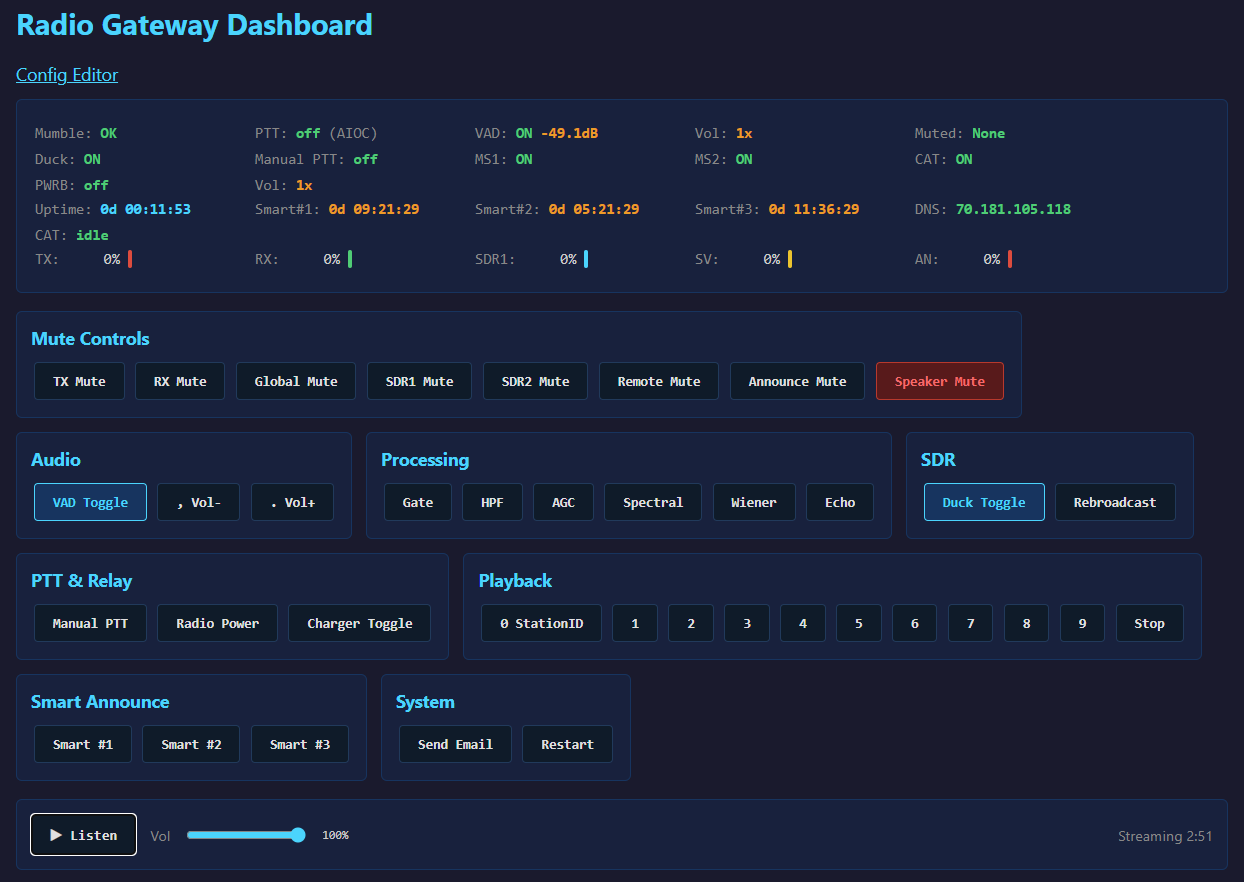
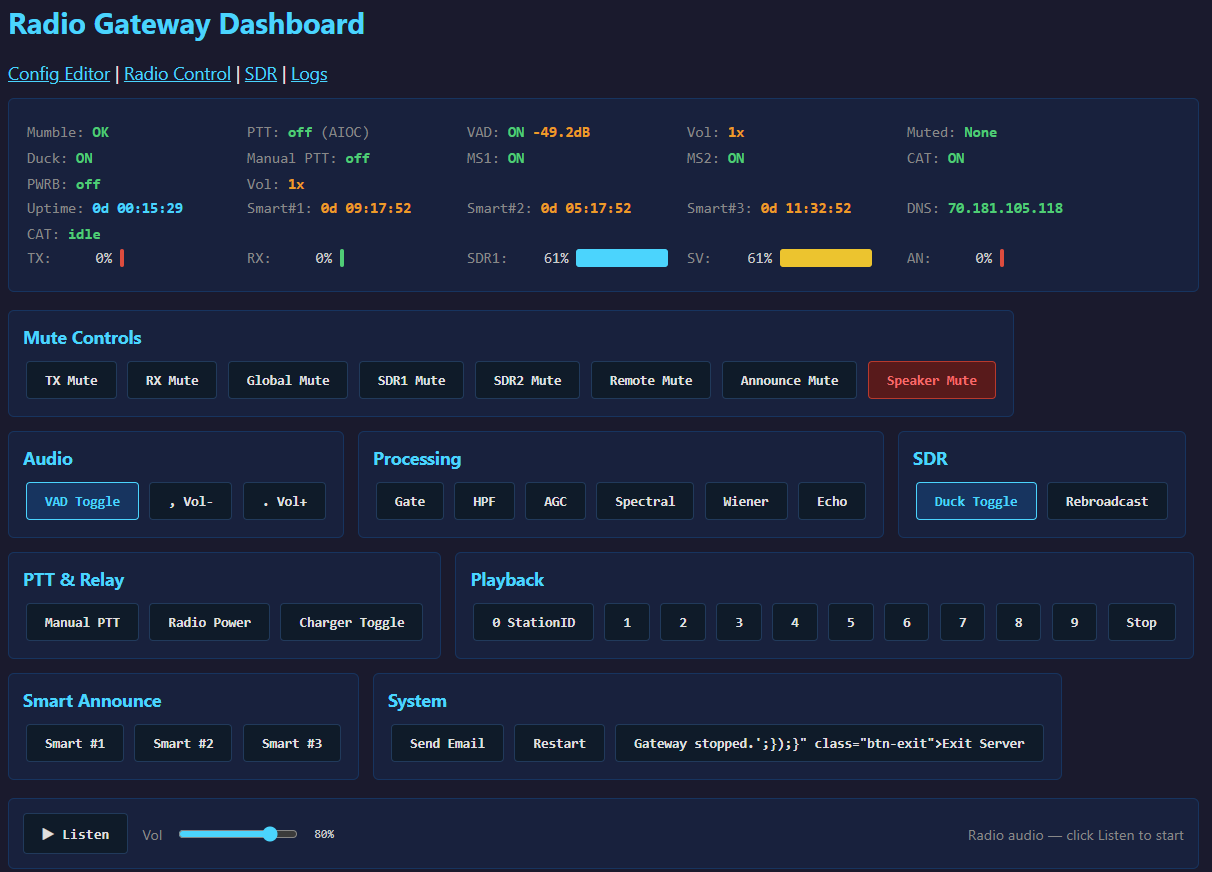
docs: add screenshots of all web UI pages, update README and manual
Added screenshots: SDR Control, Radio Control, Dashboard, Config Editor,
Gateway Logs. Updated README with v1.5.0 changelog, image captions for
all 5 pages, and expanded Web UI section. Updated MANUAL.txt with full
WEB USER INTERFACE section documenting all pages and SDR control parameters.

diff --git a/README.md b/README.md
@@ -496,6 +496,9 @@ WEB_CONFIG_PASSWORD =
 - **Save & Restart** button saves and restarts the gateway for changes to take effect
 - Dark theme matching the gateway console aesthetic
 
+![Config Editor](docs/img/config-editor.png)
+*Configuration editor with collapsible sections, Save & Restart, and Exit Server controls.*
+
 **Live Dashboard** (`http://<gateway-ip>:8080/dashboard`):
 - Real-time gateway status updated every second via JSON polling
 - Audio level bars for all sources (TX, RX, SP, SDR1, SDR2, SV/CL, AN) — same order as console
@@ -508,7 +511,41 @@ WEB_CONFIG_PASSWORD =
 - **Audio player** — listen to the gateway's mixed audio output live in the browser (MP3 stream via shared FFmpeg encoder, with play/stop button, volume slider, and elapsed timer)
 
 ![Live Dashboard](docs/img/dashboard.png)
-*Live dashboard showing gateway status, audio level bars, control buttons, and the browser audio player streaming at 2:51 elapsed.*
+*Live dashboard showing gateway status, audio level bars, mute/processing/playback controls, and the browser audio player.*
+
+**TH-9800 Radio Control** (`http://<gateway-ip>:8080/radio`):
+- Full front-panel replica of the TH-9800 dual-band radio in the browser
+- Dual VFO display with channel, signal meter, volume/squelch sliders
+- All radio buttons: ENC, DEC, TX, PREF, SKIP, DCS, MUTE, LOW, V/M, HM, SCN
+- Menu/SET controls, hyper memories (A-F), mic keypad, mic P1-P4 and UP/DN
+- PTT toggle button, TCP/Serial connect/disconnect, RTS control
+
+![Radio Control](docs/img/radio-control.png)
+*TH-9800 radio control page with dual VFO, signal meters, and full button panel.*
+
+**SDR Control** (`http://<gateway-ip>:8080/sdr`):
+- Full SDR receiver control via RTLSDR-Airband + SoapySDR
+- Live status bar: process state, frequency, modulation, sample rate, antenna
+- Live audio level bar updated every second
+- Frequency input with step buttons (6.25k, 12.5k, 25k)
+- Modulation (AM/NFM), sample rate (200 kHz — 10.66 MHz), antenna selection
+- Gain control: AGC with setpoint or manual RFGR/IFGR sliders
+- Squelch threshold (dBFS), device options (Bias-T, RF/DAB notch, IQ correction, external ref)
+- Audio filters: amp factor, highpass/lowpass, channel bandwidth, notch filter with Q
+- Device tuning: frequency correction (ppm), NFM deemphasis tau
+- 10-slot channel memory with 1-press recall, save with name, delete
+- Settings persist across gateway restarts
+
+![SDR Control](docs/img/sdr-control.png)
+*SDR control page tuned to 446.760 MHz NFM with gain, squelch, audio filters, and channel memory.*
+
+**Gateway Logs** (`http://<gateway-ip>:8080/logs`):
+- Live scrolling log viewer with auto-scroll toggle
+- Regex filter for searching log output
+- Clear button and new-line counter
+
+![Gateway Logs](docs/img/logs.png)
+*Live log viewer showing gateway startup sequence, keyboard controls, and service status.*
 
 ### Cloudflare Tunnel
 
@@ -2155,6 +2192,16 @@ class MySource(AudioSource):
 - PyAudio: Python audio interface
 
 ## Changelog
+
+### v1.5.0
+
+**SDR control page** — Full web-based SDR receiver control at `/sdr` via RTLSDR-Airband + SoapySDR. `RTLAirbandManager` class handles process lifecycle, config generation (`/etc/rtl_airband/rspduo_gateway.conf`), and settings persistence (`sdr_channels.json`). Live status bar with process state, frequency, modulation, sample rate, antenna, and audio level (1s polling). Frequency input with step buttons, modulation (AM/NFM), sample rate selection (200 kHz — 10.66 MHz for RSPduo), antenna selection, AGC/manual gain with RFGR/IFGR sliders, squelch (dBFS), and device options (Bias-T, RF/DAB notch, IQ correction, external ref, continuous output). Audio processing: amp factor, highpass/lowpass filters, channel bandwidth, notch filter with Q factor. Device tuning: frequency correction (ppm), NFM deemphasis tau (0-1000 µs). 10-slot channel memory with 1-press recall, save with name, delete. All settings persist across gateway restarts.
+
+**TH-9800 radio control page** — Full front-panel replica at `/radio` with dual VFO display, signal meters, volume/squelch sliders, all radio buttons, menu/SET controls, hyper memories, mic keypad, PTT toggle, TCP/Serial connect/disconnect.
+
+**Systemd service** — `radio-gateway.service` template for auto-start, with desktop shortcuts (start/stop/restart) and passwordless sudo via `/etc/sudoers.d/radio-gateway`. Added to installer.
+
+**Screenshots** — Added screenshots of all 5 web UI pages to README and docs.
 
 ### v1.4.0
 
